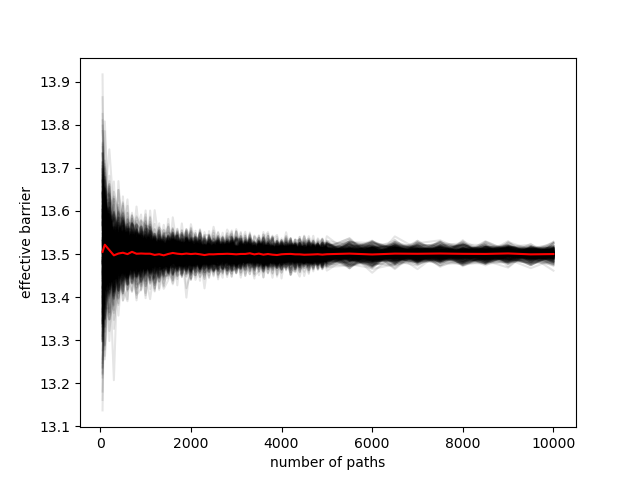
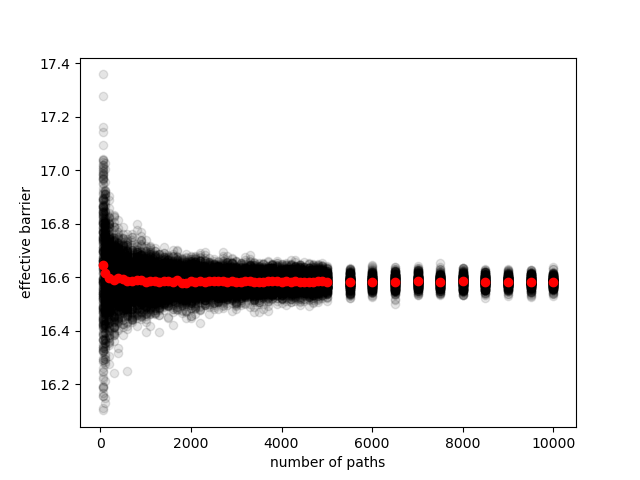
rerun convergence for normally distributed barriers with P = mean(P_i)

diff --git a/mpi_run_analyses.py b/mpi_run_analyses.py
@@ -15,7 +15,7 @@ h = 6.62607 * 10**-34      # Planck (m^2 kg / s)
 global R
 R = 1.9858775 * 10**-3     # universal gas (kcal / mol K)
 
-def path_convergence(realizations, dH_barrier, dS_barrier, dH_sigma, dS_sigma, dist, T=300, multi=True):
+def path_convergence(realizations, dH_barrier, dS_barrier, dH_sigma, dS_sigma, dist, T=300, multi=True, large_n_paths=5000, method='equal_sums'):
 
     if dist in ['normal', 'N', 'norm']:
         params = {'mu'  : np.array([dH_barrier, dS_barrier]),
@@ -61,8 +61,41 @@ def path_convergence(realizations, dH_barrier, dS_barrier, dH_sigma, dS_sigma, d
                         7500,8000,8500,9000,9500,10_000], dtype='i')
         
         # split up n_paths for each proc
-        ave, res = divmod(n_paths.size, nprocs)
-        count = np.array([ave + 1 if p < res else ave for p in range(nprocs)], dtype='i')
+        if method == 'naive_split':
+            ave, res = divmod(n_paths.size, nprocs)
+            count = np.array([ave + 1 if p < res else ave for p in range(nprocs)], dtype='i')
+
+        elif method == 'large_single_proc':
+            large_array = np.where(n_paths >= large_n_paths)[0] # if number of paths is large, assign to its own processor
+            n_large = len(large_array)
+            rest = np.where(n_paths < large_n_paths)[0]
+            ave, res = divmod(len(rest), nprocs-n_large) # split the rest among the remaining processors
+
+            if n_large > 15:
+                raise ValueError(f'{n_large} paths are considered large. Please choose a larger cutoff value or a different method.')
+            
+            count = np.zeros(nprocs, dtype='i')
+            count[:nprocs-n_large] = np.array([ave+1 if p < res else ave for p in range(nprocs-n_large)], dtype='i')
+            count[nprocs-n_large:] = np.ones(n_large)
+
+        elif method == 'equal_sums':
+            per_proc = n_paths.sum() / nprocs
+            np.random.shuffle(n_paths)
+
+            smaller_arrays = []
+            start = 0
+            end = 0
+
+            for i in range(nprocs):
+                end += np.searchsorted(np.cumsum(n_paths[start:], dtype=float), per_proc)
+                smaller_arrays.append(n_paths[start:end].tolist())
+                start = end
+
+            if start != len(n_paths):
+                for i, n in enumerate(n_paths[start:]):
+                    smaller_arrays[i].append(n)
+            
+            count = np.array([len(small) for small in smaller_arrays], dtype='i')
 
         # save the indices where each processor starts
         displ = np.array([sum(count[:p]) for p in range(nprocs)])
@@ -85,6 +118,7 @@ def path_convergence(realizations, dH_barrier, dS_barrier, dH_sigma, dS_sigma, d
 
     # break the array up and send to processors
     comm.Scatterv([n_paths, count, displ, MPI.INT], my_paths, root=0)
+    print(f'Rank {rank} is tasked with n_paths: {my_paths}, total: {my_paths.sum()}')
 
     # calculate effective barriers and permeabilities on each processor
     effective_barriers = np.zeros(len(my_paths))
@@ -110,23 +144,23 @@ def path_convergence(realizations, dH_barrier, dS_barrier, dH_sigma, dS_sigma, d
 
         if rank == 0:
             # save for average across realizations 
-            avg_barrier += all_barriers + R*T*np.log(n_paths)
-            avg_permeability += all_permeabilities / n_paths
+            avg_barrier += all_barriers
+            avg_permeability += all_permeabilities
 
-            ax1.plot(n_paths, all_barriers + R*T*np.log(n_paths), alpha=0.1, c='k')
-            ax2.plot(n_paths, all_permeabilities / n_paths, alpha=0.1, c='k')
+            ax1.scatter(n_paths, all_barriers, alpha=0.1, c='k')
+            ax2.scatter(n_paths, all_permeabilities, alpha=0.1, c='k')
         
 
     if rank == 0:
         data = np.column_stack((n_paths, avg_barrier/realizations, avg_permeability/realizations))
         np.savetxt(f'avg_convergence_{dist}_{realizations}iter.csv', data, delimiter=',')
-        ax1.plot(n_paths, avg_barrier / realizations, c='r')
-        ax2.plot(n_paths, avg_permeability / realizations, c='r')
+        ax1.scatter(n_paths, avg_barrier / realizations, c='r')
+        ax2.scatter(n_paths, avg_permeability / realizations, c='r')
 
         ax1.set_xlabel('number of paths')
         ax1.set_ylabel('effective barrier')
         ax2.set_xlabel('number of paths')
-        ax2.set_ylabel('permeability per path')
+        ax2.set_ylabel('permeability')
         plt.show()
 
     my_end = timer()
@@ -139,12 +173,10 @@ if __name__ == "__main__":
     iters = 300
     T = 300
     multi = True
-    dH_barrier = 4.5
-    dS_barrier = -6/300
-    dH_sigma = 1.5
-    dS_sigma = 2/300
-
-    dG_barrier = dH_barrier - T*dS_barrier
+    dH_barrier = 3.5
+    dS_barrier = -9/300
+    dH_sigma = 3.5/3
+    dS_sigma = 3/300
 
     # normal distributions
     path_convergence(iters, dH_barrier, dS_barrier, dH_sigma, dS_sigma, dist='norm', T=T, multi=multi)
